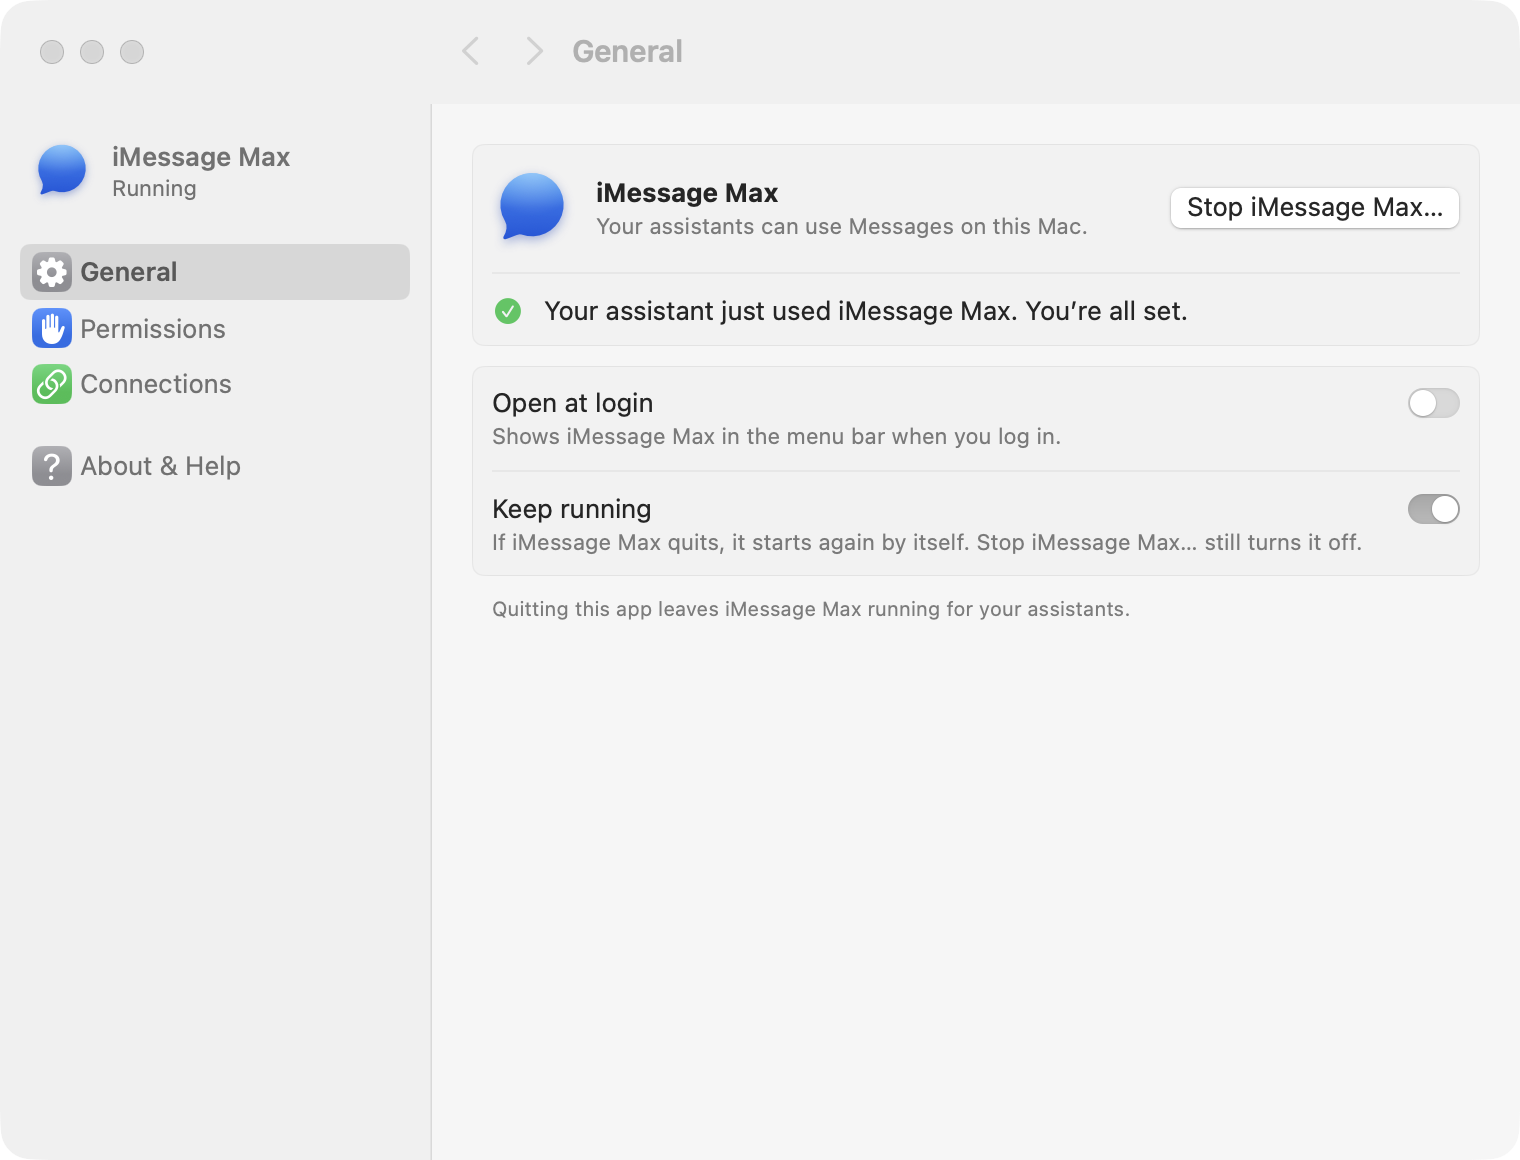
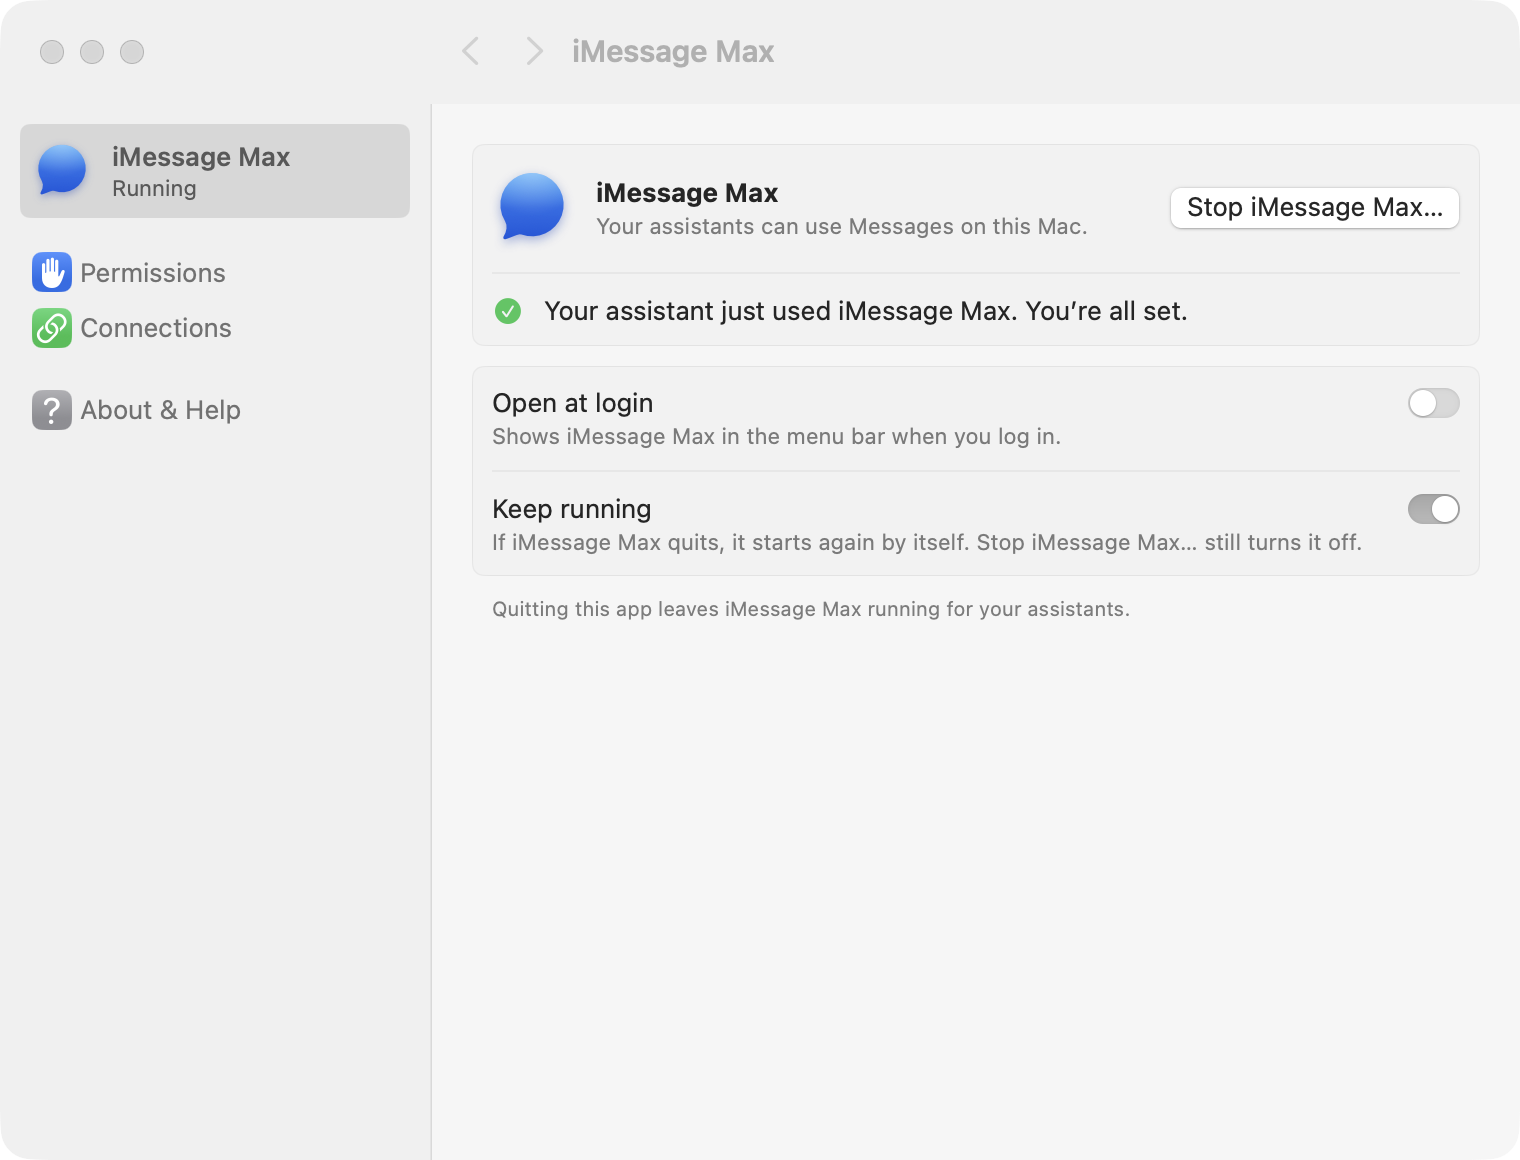
fix(companion): make the sidebar's iMessage Max row its own page
Rob found that clicking the iMessage Max row at the top of the Settings
sidebar jumped to General, unlike Rex, where the account-style row is a
page of its own. The row is now the iMessage Max page (status, Stop,
Open at login, Keep running), it highlights when selected, and the
separate General row is gone. Buttons and switches drop the forced brand
tint and use the system accent, so Stop iMessage Max… is a plain button.

Claude-Session: https://claude.ai/code/session_01EHDfML8yK1iuTpEK9HwBbU

Changed region(s): [[0.0, 0.0931, 0.2783, 0.4345], [0.3711, 0.031, 0.5257, 0.0621]]

diff --git a/macos/Sources/iMessageMaxMenu/SettingsWindow.swift b/macos/Sources/iMessageMaxMenu/SettingsWindow.swift
@@ -189,9 +189,8 @@ struct SettingsSidebar: View {
         get: { model.history.current },
         set: { if let page = $0 { model.show(page) } })
     ) {
-      IdentityRow(model: model)
+      IdentityRow(model: model).tag(SettingsPage.general)
       Section {
-        SidebarRow(page: .general, symbol: "gearshape.fill", color: .gray)
         SidebarRow(page: .permissions, symbol: "hand.raised.fill", color: Design.blue)
         SidebarRow(page: .connections, symbol: "link", color: .green)
       }
@@ -200,7 +199,6 @@ struct SettingsSidebar: View {
       }
     }
     .listStyle(.sidebar)
-    .tint(Design.blue)
   }
 }
 
@@ -217,13 +215,12 @@ struct SettingsDetail: View {
       }
     }
     .formStyle(.grouped)
-    .tint(Design.blue)
   }
 }
 
 /// The top of the sidebar: who this is and how it is doing, like the account
-/// row in System Settings. It is not a page of its own: clicking it opens the
-/// page that needs the user, or General.
+/// row in System Settings. It is the app's own page, with the service,
+/// Open at login and Keep running.
 struct IdentityRow: View {
   let model: AppModel
 
@@ -239,11 +236,8 @@ struct IdentityRow: View {
       }
     }
     .padding(.vertical, 4)
-    .contentShape(Rectangle())
-    .onTapGesture { model.show(state.attention?.page ?? .general) }
     .accessibilityElement(children: .combine)
     .accessibilityLabel("iMessage Max, \(state.status.word)")
-    .accessibilityAddTraits(.isButton)
   }
 }
 

diff --git a/macos/Tests/CompanionTests/PanelStateTests.swift b/macos/Tests/CompanionTests/PanelStateTests.swift
@@ -249,6 +249,6 @@ private func granted(_ state: PanelState) -> [SetupStep] {
   }
 
   @Test func thePagesAreInSidebarOrder() {
-    #expect(SettingsPage.allCases.map(\.title) == ["General", "Permissions", "Connections", "About & Help"])
+    #expect(SettingsPage.allCases.map(\.title) == ["iMessage Max", "Permissions", "Connections", "About & Help"])
   }
 }

diff --git a/macos/Sources/iMessageMaxMenu/SettingsPages.swift b/macos/Sources/iMessageMaxMenu/SettingsPages.swift
@@ -147,6 +147,7 @@ struct GeneralPage: View {
         .disabled(!state.primaryEnabled)
     } else if model.service?.isRunning == true {
       Button("Stop iMessage Max…") { confirmingStop = true }
+        .tint(.red)
         .disabled(!model.canControl)
     } else if state.step != nil {
       Button("Show Permissions") { model.show(.permissions) }

diff --git a/macos/Sources/iMessageMaxMenu/PanelState.swift b/macos/Sources/iMessageMaxMenu/PanelState.swift
@@ -153,7 +153,7 @@ enum SettingsPage: String, CaseIterable, Identifiable {
 
   var title: String {
     switch self {
-    case .general: "General"
+    case .general: "iMessage Max"
     case .permissions: "Permissions"
     case .connections: "Connections"
     case .about: "About & Help"

diff --git a/CHANGELOG.md b/CHANGELOG.md
@@ -4,17 +4,17 @@
 
 ### Service
 
-- New **Keep running** setting in Settings → General, on by default. While it is on, the helper starts again after a plain quit from Activity Monitor or `kill`, not only after a crash. Turn it off and a quit leaves the helper stopped. The change applies at once, with no restart. Stop iMessage Max… keeps the helper stopped either way, until you start it again or log in again. The setting is the `stay-stopped` file in `~/Library/Application Support/iMessage Max/`.
+- New **Keep running** setting on the iMessage Max page of Settings, on by default. While it is on, the helper starts again after a plain quit from Activity Monitor or `kill`, not only after a crash. Turn it off and a quit leaves the helper stopped. The change applies at once, with no restart. Stop iMessage Max… keeps the helper stopped either way, until you start it again or log in again. The setting is the `stay-stopped` file in `~/Library/Application Support/iMessage Max/`.
 - An update that changes the helper's launchd plist now takes effect. macOS keeps a registered helper on the plist it first loaded, so the app records the plist it registered (`registered-agent.sha256` in `~/Library/Application Support/iMessage Max/`) and, when the bundled plist differs, registers the helper again on launch or on `--register-helper`. A Mac updating from 2.0.0 has no record yet and registers again once, which loads the new Keep running behaviour. macOS may show its "background item added" notice that one time. Permissions are unaffected.
 
 ### Companion app
 
 - The menu bar bubble opens a plain macOS menu in place of the popover panel. Its header shows Max's face and one status word: Running, Needs attention, Stopped or Setting up. One more line names the next thing to do, such as Turn on Full Disk Access, and opens Settings on the page that fixes it. Below that are Connections (such as "Connections: Plug", or None), Settings… (⌘,) and Quit iMessage Max (⌘Q). Quitting still leaves the helper running.
-- Setup, permissions, connections and help moved to a Settings window with a sidebar, back and forward buttons, and grouped forms built from stock controls, so macOS 26 draws its own Liquid Glass. Under a row with the face and the status word, the pages are General, Permissions, Connections, and About & Help. Opening the app shows the window on Permissions.
-- The switch that started and stopped the helper is now a Stop iMessage Max… button on General, which asks first, and a Start iMessage Max button when it is stopped.
+- Setup, permissions, connections and help moved to a Settings window with a sidebar, back and forward buttons, and grouped forms built from stock controls, so macOS 26 draws its own Liquid Glass. The sidebar's first row, with the face and the status word, is the iMessage Max page itself, as the account row is in System Settings. Below it are Permissions, Connections, and About & Help. Buttons and switches use the system accent colour. Opening the app shows the window on Permissions.
+- The switch that started and stopped the helper is now a Stop iMessage Max… button on the iMessage Max page, which asks first, and a Start iMessage Max button when it is stopped.
 - Permissions lists Background activity, Full Disk Access, Contacts and Automation by their System Settings names, each with what it is for and its status: On or Off, Allowed or Not allowed, and Some contacts for limited Contacts access. The first missing permission shows its explanation and buttons in its row. Coming back to the window from System Settings checks again.
 - Connecting an assistant is a section under Permissions once every permission is on and no assistant is connected. It leaves for good once one connects, an assistant calls a tool, or you choose Not Now.
-- The Try it step and its sample prompt are gone. The first time an assistant uses iMessage Max, the menu header and General say so, in place of a notice that covered the panel's content.
+- The Try it step and its sample prompt are gone. The first time an assistant uses iMessage Max, the menu header and the iMessage Max page say so, in place of a notice that covered the panel's content.
 - The custom-painted cards, buttons, switch and glyphs are gone in favour of SF Symbols and system controls. Copy buttons say Copied on the button, and VoiceOver reads out the result of an action.
 - The design harness shows the Settings window with `--design-window --design-open <general|permissions|connections|about>` and draws the status menu with `--design-menu`. Captures of every page and of the menu in each status are in `docs/design/settings/`.
 

diff --git a/macos/README.md b/macos/README.md
@@ -15,9 +15,9 @@ The bubble's menu is a plain macOS menu:
 
 The Settings window has a sidebar and a grouped form on each page, built from stock SwiftUI and AppKit controls, so macOS draws its own materials, controls and Liquid Glass. Back and forward buttons in the toolbar retrace the pages you opened. The app shows in the Dock and the app switcher only while the window is open.
 
-The top of the sidebar shows the face, **iMessage Max** and the status word, like the account row in System Settings. Clicking it opens the page that needs you, or General.
+The top of the sidebar shows the face, **iMessage Max** and the status word, like the account row in System Settings. It is a page of its own, the first one:
 
-- **General** shows what the helper is doing, with **Stop iMessage Max…** (which asks first) or **Start iMessage Max**, or the one button that clears a blocked state: Move to Applications, Replace Older Helper, Restart iMessage Max or Check Again. An error shows here with a Restart button. **Open at login** is off by default. If macOS requires approval, the page links to Login Items. **Keep running**, on by default, starts the helper again when it quits; Stop iMessage Max… still keeps it stopped.
+- **iMessage Max** shows what the helper is doing, with **Stop iMessage Max…** (which asks first) or **Start iMessage Max**, or the one button that clears a blocked state: Move to Applications, Replace Older Helper, Restart iMessage Max or Check Again. An error shows here with a Restart button. **Open at login** is off by default. If macOS requires approval, the page links to Login Items. **Keep running**, on by default, starts the helper again when it quits; Stop iMessage Max… still keeps it stopped.
 - **Permissions** lists Background activity, Full Disk Access, Contacts and Automation by their System Settings names, each with a line on what it is for and its status (On or Off, Allowed, Some contacts or Not allowed, or Not checked while the helper is not running). The page looks the same during first run and after. The first missing permission shows its explanation and buttons in its row. Each permission is judged on every check, so a grant turned off in System Settings shows at the next check.
   - Full Disk Access and Contacts need a grant that macOS gives only to a newly started helper. When you open the menu or come back to the window with one of those missing, or you choose Check Again, the app restarts the helper itself and checks.
   - Once every permission is on, a **Connect your assistant** section lists the assistants found on this Mac with one Connect button each. It leaves for good once an assistant connects or calls a tool, or when you choose Not Now.
